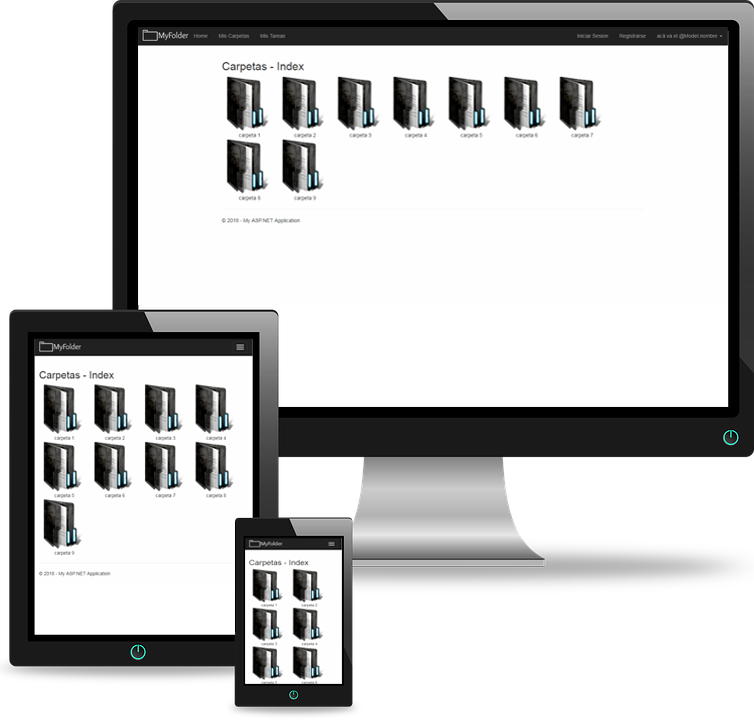
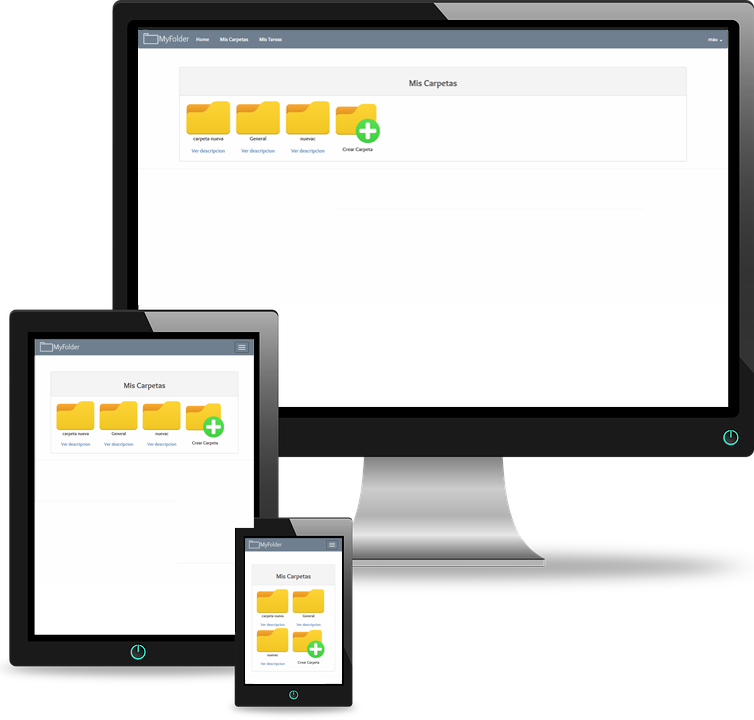
detalles...

diff --git a/TPFinalProgWebIII/TPFinalProgWebIII/Content/css/general.css b/TPFinalProgWebIII/TPFinalProgWebIII/Content/css/general.css
@@ -77,3 +77,56 @@ div>h2
     max-width:500px;
     margin:auto;
 }
+
+.navbar-inverse
+{
+    background-color:slategrey !important;
+    border:none;
+}
+
+.navbar-toggle:hover
+{
+    background-color:lightsteelblue !important;
+    
+}
+.navbar-toggle:focus
+{
+    background-color:lightsteelblue !important;
+  
+}
+
+.navbar-nav>.open>a:hover
+{
+     background-color:lightsteelblue !important;
+       
+}
+.navbar-nav>.open>a:focus
+{
+     background-color:lightsteelblue !important;
+
+}
+
+li>a
+{
+    color:white !important;
+  
+}
+li>a:hover
+{
+    background-color:lightsteelblue !important;
+}
+
+
+.navbar-inverse .navbar-nav>.open>a, .navbar-inverse .navbar-nav>.open>a:focus, .navbar-inverse .navbar-nav>.open>a:hover
+{
+    background-color:lightsteelblue !important;
+}
+.cerrarSession
+{
+    color:black !important;
+}
+
+.dropdown-menu
+{
+     background-color:slategrey !important;
+}

diff --git a/TPFinalProgWebIII/TPFinalProgWebIII/Content/css/Carpetas.css b/TPFinalProgWebIII/TPFinalProgWebIII/Content/css/Carpetas.css
@@ -10,13 +10,13 @@
 .contenedor_carpetas
 {
    width:125px;
-   
+   margin-right:10px;
    display:flex;
    flex-direction:column;
 }
 .carpeta
 {
-    height:120px;
+    width:120px;
     margin:0 auto;
 }
 .contenedor_carpetas>p
@@ -40,7 +40,7 @@
     }
 
 .iconfolder {
-    max-height: 30px;
+    max-width: 30px;
 }
 .titulo
 {

diff --git a/TPFinalProgWebIII/TPFinalProgWebIII/Controllers/CarpetasController.cs b/TPFinalProgWebIII/TPFinalProgWebIII/Controllers/CarpetasController.cs
@@ -38,7 +38,7 @@ namespace TPFinalProgWebIII.Controllers
 
                 ViewBag.carpetas = usuario.Carpeta.OrderBy(x => x.Nombre).ToList();
 
-                return View("Index", ViewBag);
+                return View("Index");
             }
             catch (Exception e)
             {
@@ -103,7 +103,7 @@ namespace TPFinalProgWebIII.Controllers
                 ViewBag.tareas = _generalTareaService.GetAll().Where(x => x.IdCarpeta == id).ToList();
 
               
-                return View("Tareas", ViewBag);
+                return View("Tareas");
             }
             catch (Exception e)
             {

diff --git a/TPFinalProgWebIII/TPFinalProgWebIII/Controllers/TareasController.cs b/TPFinalProgWebIII/TPFinalProgWebIII/Controllers/TareasController.cs
@@ -41,7 +41,7 @@ namespace TPFinalProgWebIII.Controllers
 
                 ViewBag.tareas = usuario.Tarea.OrderByDescending(x => x.FechaCreacion).ToList();
 
-                return View("Index", ViewBag);
+                return View("Index");
             }
             catch (Exception e)
             {

diff --git a/TPFinalProgWebIII/TPFinalProgWebIII/Controllers/HomeController.cs b/TPFinalProgWebIII/TPFinalProgWebIII/Controllers/HomeController.cs
@@ -52,7 +52,7 @@ namespace TPFinalProgWebIII.Controllers
                     ViewBag.carpetas = carpetas;
                     ViewBag.tareas = tareas;
 
-                    return View("Index", ViewBag);
+                    return View("Index");
 
                 }
             }
